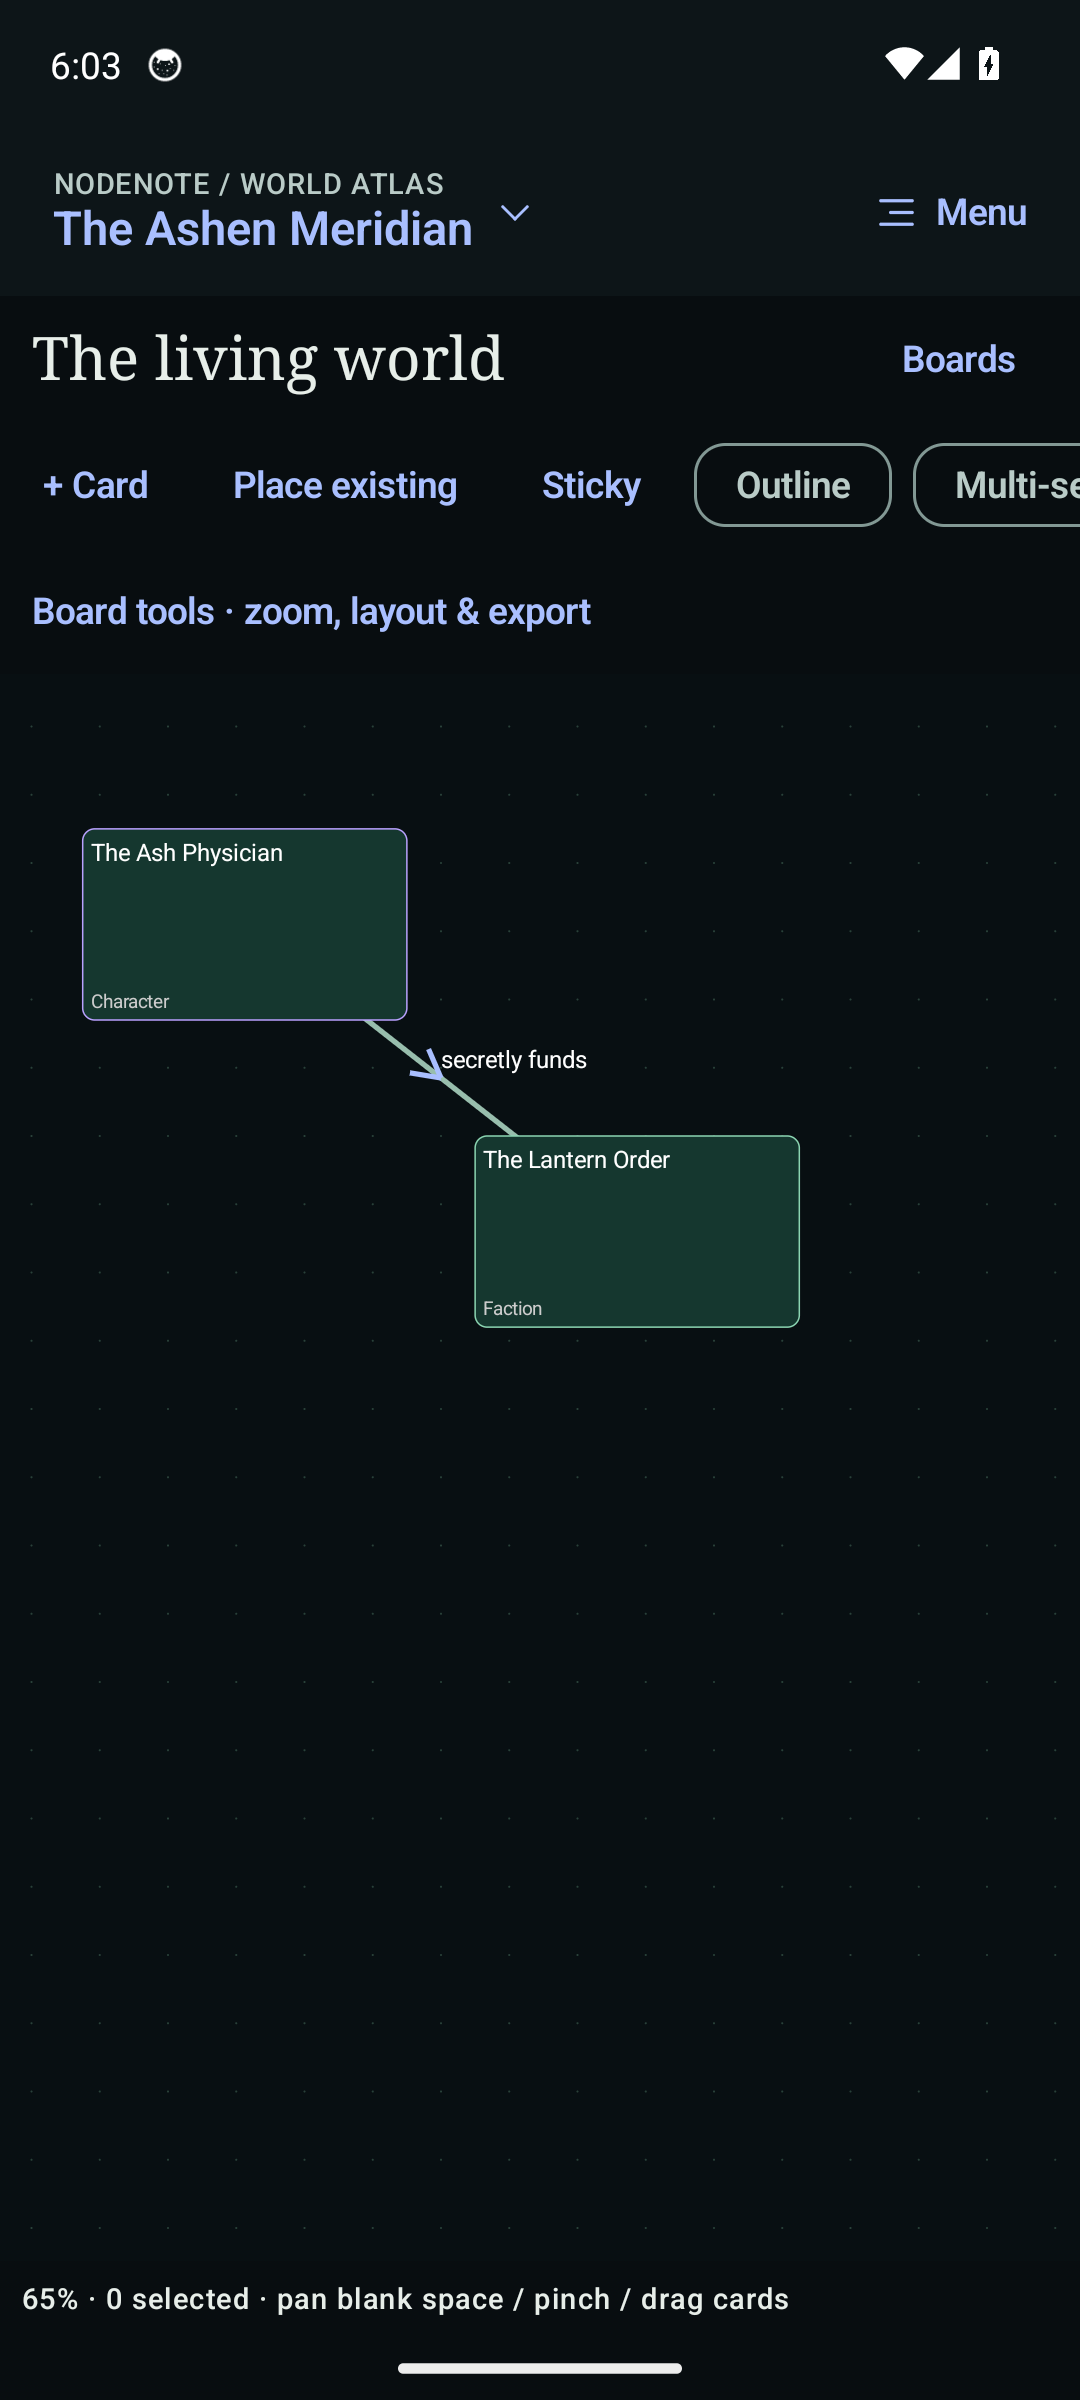
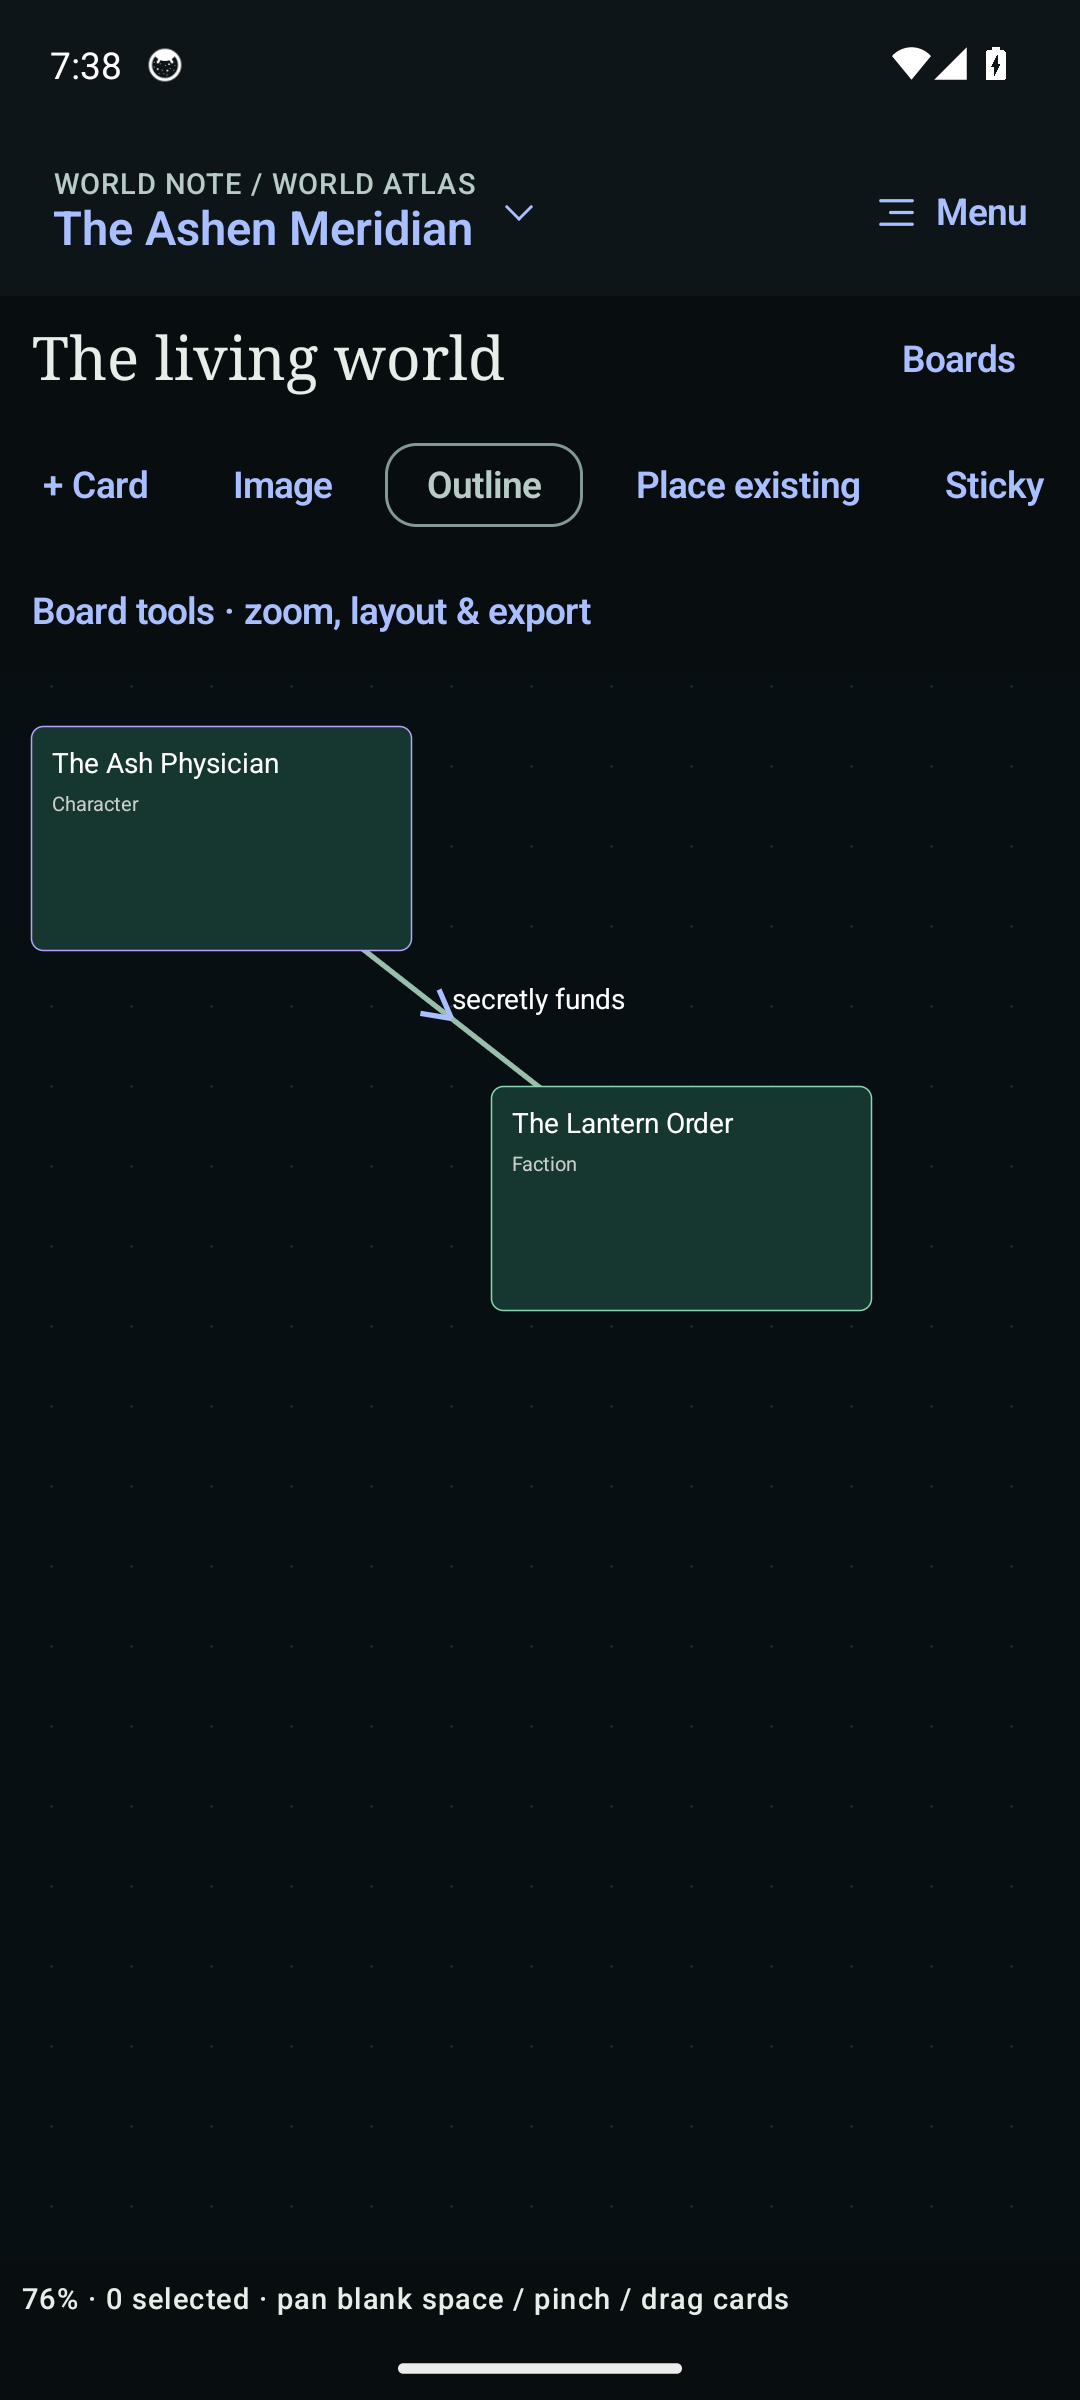
Rename app to World Note and prepare 0.2.2

diff --git a/app/src/main/kotlin/app/nodenote/worldbuilder/ui/App.kt b/app/src/main/kotlin/app/nodenote/worldbuilder/ui/App.kt
@@ -296,7 +296,7 @@ fun NodeNoteApp(vm: AppModel) {
                                 AtlasHero(
                                     stringResource(R.string.ui_a_world_worth_remembering_ce5ea2),
                                     "Build a private library of people, places, and histories. Everything stays on this device.",
-                                    "NodeNote / world atlas",
+                                    "World Note / world atlas",
                                 )
                                 Button(onClick = { worldDialog = true }, Modifier.fillMaxWidth()) {
                                     Text(stringResource(R.string.ui_create_my_world_fde6e0))
@@ -904,7 +904,7 @@ fun NodeNoteApp(vm: AppModel) {
                                 exportMode = askExport!!
                                 askExport = null
                                 exportPicker.launch(
-                                    "NodeNote-${exportMode.replace(' ','-')}.${when(exportMode){"backup"->"nnbackup"
+                                    "World-Note-${exportMode.replace(' ','-')}.${when(exportMode){"backup"->"nnbackup"
 "world"->"nnworld"
 "markdown","public","draft"->"md"
 "canvas"->"canvas"

diff --git a/app/src/androidTest/kotlin/app/nodenote/worldbuilder/PickerInstrumentedTest.kt b/app/src/androidTest/kotlin/app/nodenote/worldbuilder/PickerInstrumentedTest.kt
@@ -46,7 +46,7 @@ class PickerInstrumentedTest {
         }
         rule.onNodeWithText("OK").performClick()
         rule
-            .onNodeWithText("Restore / NodeNote / JSON Canvas import")
+            .onNodeWithText("Restore / import backup")
             .performScrollTo()
             .performClick()
         device.waitForIdle()
@@ -69,7 +69,7 @@ class PickerInstrumentedTest {
         }
         rule.onNodeWithText("OK").performClick()
         rule
-            .onNodeWithText("Restore / NodeNote / JSON Canvas import")
+            .onNodeWithText("Restore / import backup")
             .performScrollTo()
             .performClick()
         device.wait(Until.hasObject(By.text(exportName)), 30000)

diff --git a/app/src/main/kotlin/app/nodenote/worldbuilder/data/Files.kt b/app/src/main/kotlin/app/nodenote/worldbuilder/data/Files.kt
@@ -118,7 +118,7 @@ class ManagedFiles(private val context: Context, private val repository: Reposit
                         fields =
                             mapOf(
                                 "caption" to "Geometric placeholder, generated locally.",
-                                "credit" to "NodeNote sample artwork",
+                                "credit" to "World Note sample artwork",
                                 "cover" to "true",
                             ),
                     )

diff --git a/scripts/package.py b/scripts/package.py
@@ -10,10 +10,10 @@ art.mkdir(exist_ok=True)
 apk=root/'app/build/outputs/apk/debug/app-debug.apk'
 if not apk.is_file():
     raise SystemExit('No Gradle debug APK. Run verification first; packaging cannot fabricate a build.')
-shutil.copy2(apk,art/'NodeNote-Worldbuilder-debug.apk')
+shutil.copy2(apk,art/'World-Note-debug.apk')
 allowed_dirs={'app','core','gradle','scripts','docs','.github'}
 allowed_root={'README.md','CONTRIBUTING.md','CHANGELOG.md','.gitignore','.gitattributes','settings.gradle.kts','build.gradle.kts','gradle.properties','gradlew','gradlew.bat'}
-with zipfile.ZipFile(art/'NodeNote-Worldbuilder-source.zip','w',zipfile.ZIP_DEFLATED) as archive:
+with zipfile.ZipFile(art/'World-Note-source.zip','w',zipfile.ZIP_DEFLATED) as archive:
     candidates = [root / name for name in allowed_root]
     for directory in sorted(allowed_dirs):
         candidates.extend((root / directory).rglob('*'))
@@ -27,6 +27,6 @@ with zipfile.ZipFile(art/'NodeNote-Worldbuilder-source.zip','w',zipfile.ZIP_DEFL
         info.external_attr=((0o100755 if path.name in {'gradlew','verify.sh'} else 0o100644)<<16)
         info.compress_type=zipfile.ZIP_DEFLATED
         archive.writestr(info,path.read_bytes())
-files=[art/'NodeNote-Worldbuilder-debug.apk',art/'NodeNote-Worldbuilder-source.zip']
+files=[art/'World-Note-debug.apk',art/'World-Note-source.zip']
 (art/'SHA256SUMS').write_text(''.join(f'{hashlib.sha256(p.read_bytes()).hexdigest()}  {p.name}\n' for p in files),encoding='utf-8')
 for path in files: print(path, path.stat().st_size)

diff --git a/docs/USER_GUIDE.md b/docs/USER_GUIDE.md
@@ -38,7 +38,7 @@ Pan on empty space, pinch to zoom and drag cards to move them. Select cards to r
 
 ### Images and richer cards
 
-For a new image, use **Image** on the board. NodeNote copies the original into private storage; deleting the picked source does not remove the imported copy.
+For a new image, use **Image** on the board. World Note copies the original into private storage; deleting the picked source does not remove the imported copy.
 
 For an existing entry:
 
@@ -80,7 +80,7 @@ Open **Menu → Settings & backup → Complete workspace backup**, then choose a
 
 A complete backup includes lore, images, boards, chronology, drafts, revisions, trash and preferences. It is the lossless restore format. Keep a copy outside the phone; app-private recovery files do not protect against device loss.
 
-To restore, select **Restore / NodeNote / JSON Canvas import**, choose the file and review the validated summary. **Import as new worlds** keeps the existing worlds separate. Replacement is an explicit choice and creates an internal safety archive first.
+To restore, select **Restore / import backup**, choose the file and review the validated summary. **Import as new worlds** keeps the existing worlds separate. Replacement is an explicit choice and creates an internal safety archive first.
 
 **Markdown** is for readable exports. **JSON Canvas** is board interchange and cannot represent the entire world model; neither replaces a complete backup. Backups/author exports contain readable private lore and are not encrypted.
 
@@ -90,11 +90,11 @@ To restore, select **Restore / NodeNote / JSON Canvas import**, choose the file 
 - **An image preview is broken.** Open **Storage & recovery** to clear regenerable previews. Originals are retained.
 - **Where are safety copies?** In **Storage & recovery**, where you can inspect/export them before explicitly removing them.
 - **The update will not install.** Confirm Android/ADB authorization and signing identity. Do not uninstall or clear app data to fix a signing mismatch.
-- **Can I use the app offline?** Yes. A system document provider you choose may require its own network access; NodeNote itself has no INTERNET permission.
+- **Can I use the app offline?** Yes. A system document provider you choose may require its own network access; World Note itself has no INTERNET permission.
 
 ## 8. Storage and current limits
 
-Your notes and imported originals stay in app-private storage. NodeNote has no account, analytics or background network access. Android cloud backup is disabled; use a complete workspace backup to keep an external copy. Backup files and author exports are readable and unencrypted.
+Your notes and imported originals stay in app-private storage. World Note has no account, analytics or background network access. Android cloud backup is disabled; use a complete workspace backup to keep an external copy. Backup files and author exports are readable and unencrypted.
 
 Images are limited to 32 MiB / 80 megapixels. Animated images display a still preview while retaining the original file. Complete backups are limited to 512 MiB, with 64 MiB per member and 10,000 members. See [backup format](BACKUP_FORMAT.md) for details.
 

diff --git a/README.md b/README.md
@@ -1,10 +1,10 @@
-# NodeNote Worldbuilder
+# World Note
 
 **An offline Android notebook for worlds with interconnected people, places and history.**
 
 Write lore once, reuse it on visual boards, explain relationships, and organize ancient history without making up dates you do not know.
 
-**Native Kotlin + Jetpack Compose · Room/SQLite · Android 14 tested · Current test version: 0.2.1**
+**Native Kotlin + Jetpack Compose · Room/SQLite · Android 14 tested · Current test version: 0.2.2**
 
 <p>
   <img src="docs/images/library.png" width="260" alt="Dark green lore library with reusable entries">
@@ -43,7 +43,7 @@ Wait for **Saved** before deliberately closing the app. Backups contain readable
 
 ### Download the APK
 
-**[Download NodeNote 0.2.1 for Android](https://github.com/Fegi176/NodeNote/releases/download/v0.2.1/NodeNote-Worldbuilder-0.2.1.apk)** · [Release notes](https://github.com/Fegi176/NodeNote/releases/tag/v0.2.1)
+**[Download World Note 0.2.2 for Android](https://github.com/Fegi176/NodeNote/releases/download/v0.2.2/World-Note-0.2.2.apk)** · [Release notes](https://github.com/Fegi176/NodeNote/releases/tag/v0.2.2)
 
 Open the APK on your phone to install. This is a signed test release for Android 14. Android may ask you to allow installation from your browser or file manager. Install updates over the existing app to keep your data. Downloads require repository access while this repository is private.
 

diff --git a/docs/BUILDING.md b/docs/BUILDING.md
@@ -76,8 +76,8 @@ python scripts/package.py
 
 Outputs are ignored by Git:
 
-- `artifacts/NodeNote-Worldbuilder-debug.apk`
-- `artifacts/NodeNote-Worldbuilder-source.zip`
+- `artifacts/World-Note-debug.apk`
+- `artifacts/World-Note-source.zip`
 - `artifacts/SHA256SUMS`
 
 Source packaging includes source/tests/schemas/wrapper/scripts/docs and excludes SDKs, caches, keys, local configuration and user databases. After packaging, `scripts/install-android14.ps1 -Serial YOUR_PHONE_SERIAL` checks Android 14 and updates/launches the app.

diff --git a/CHANGELOG.md b/CHANGELOG.md
@@ -1,5 +1,10 @@
 # Changelog
 
+## 0.2.2 — 2026-09-15
+
+- Renamed the app to **World Note**, including the launcher, welcome screen and export filenames.
+- Kept the existing install identity and backup format so updates retain saved worlds and earlier backups remain compatible.
+
 ## 0.2.1 — 2026-09-15
 
 - Import an image directly from a board as reusable lore with a managed original.
